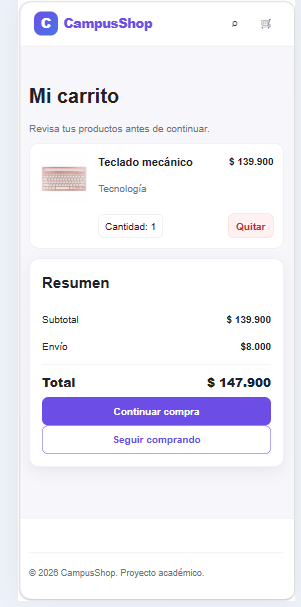
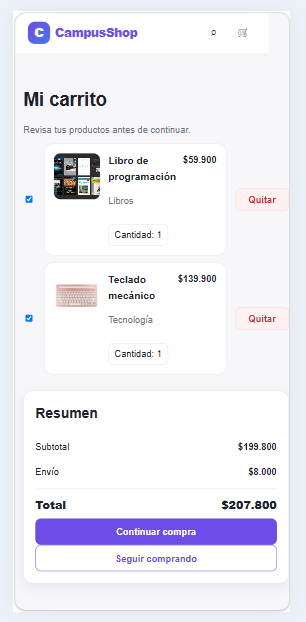
feat:modificiones de imagenes README y ajustes en el codigo

diff --git a/README.md b/README.md
@@ -97,7 +97,7 @@ A continuación se presentan las vistas principales maquetadas comparadas con lo
 
 ### 🛒 Carrito de Compras
 
-![Vista del Carrito de Compras](img/carrito.png)
+![1789744951542](img/carrito.png)
 
 ### 💳 Processo de Checkout
 
@@ -109,7 +109,7 @@ A continuación se presentan las vistas principales maquetadas comparadas con lo
 
 ### 🚫 Pantalla Vacía / Error
 
-![Vista de Carrito Vacío](img/vacio.png)
+![1789745561699](img/vacio.png)
 
 ## Prodcuctos Populares
 
